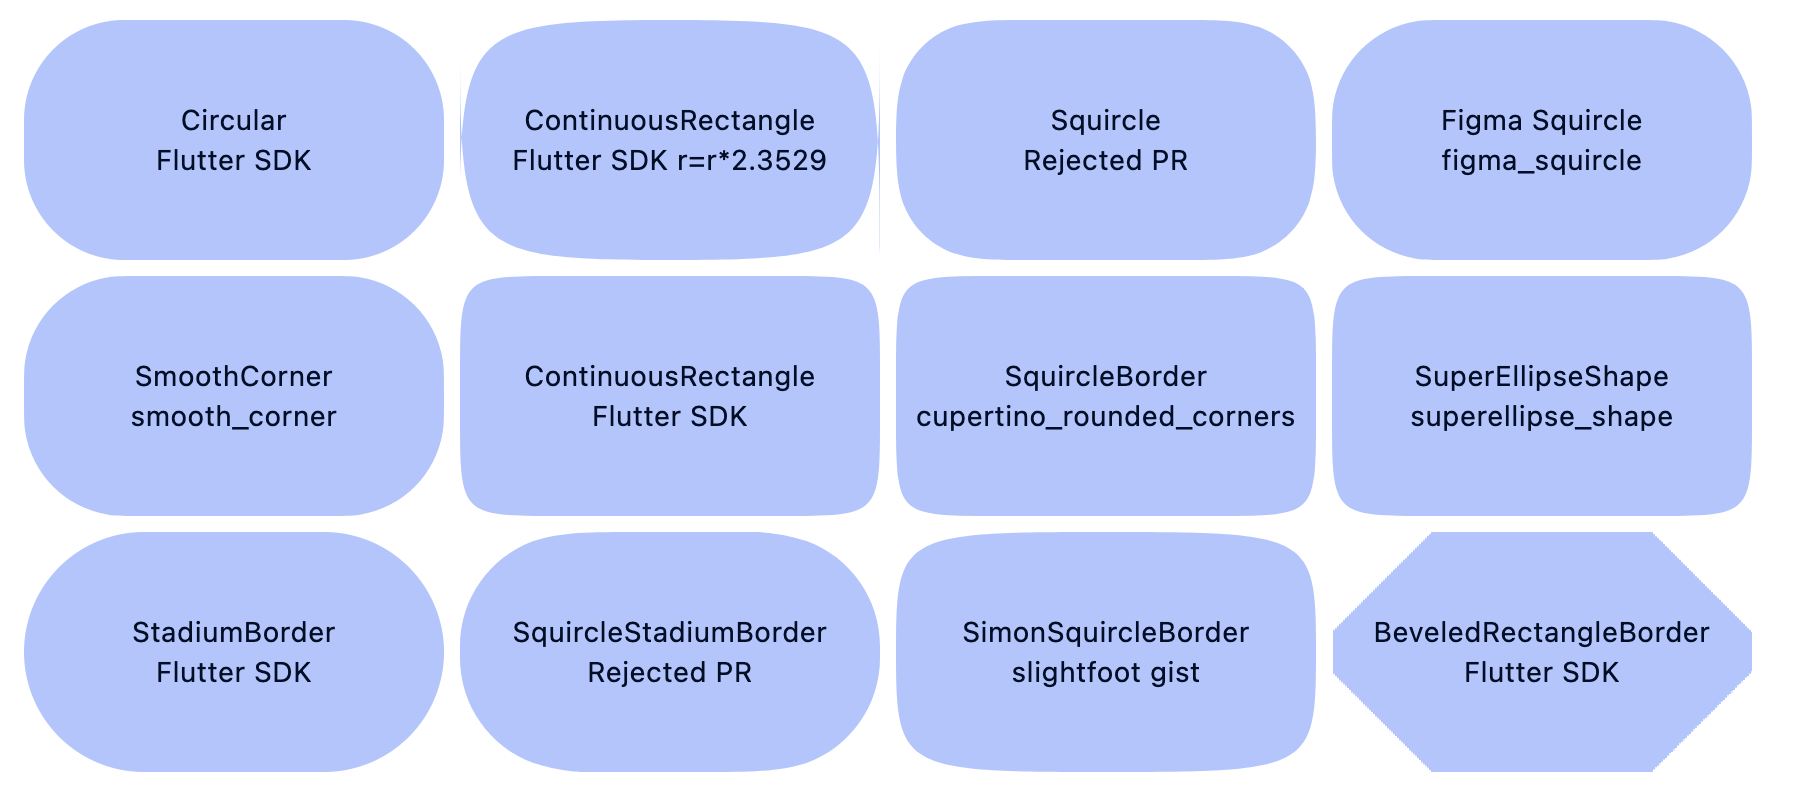
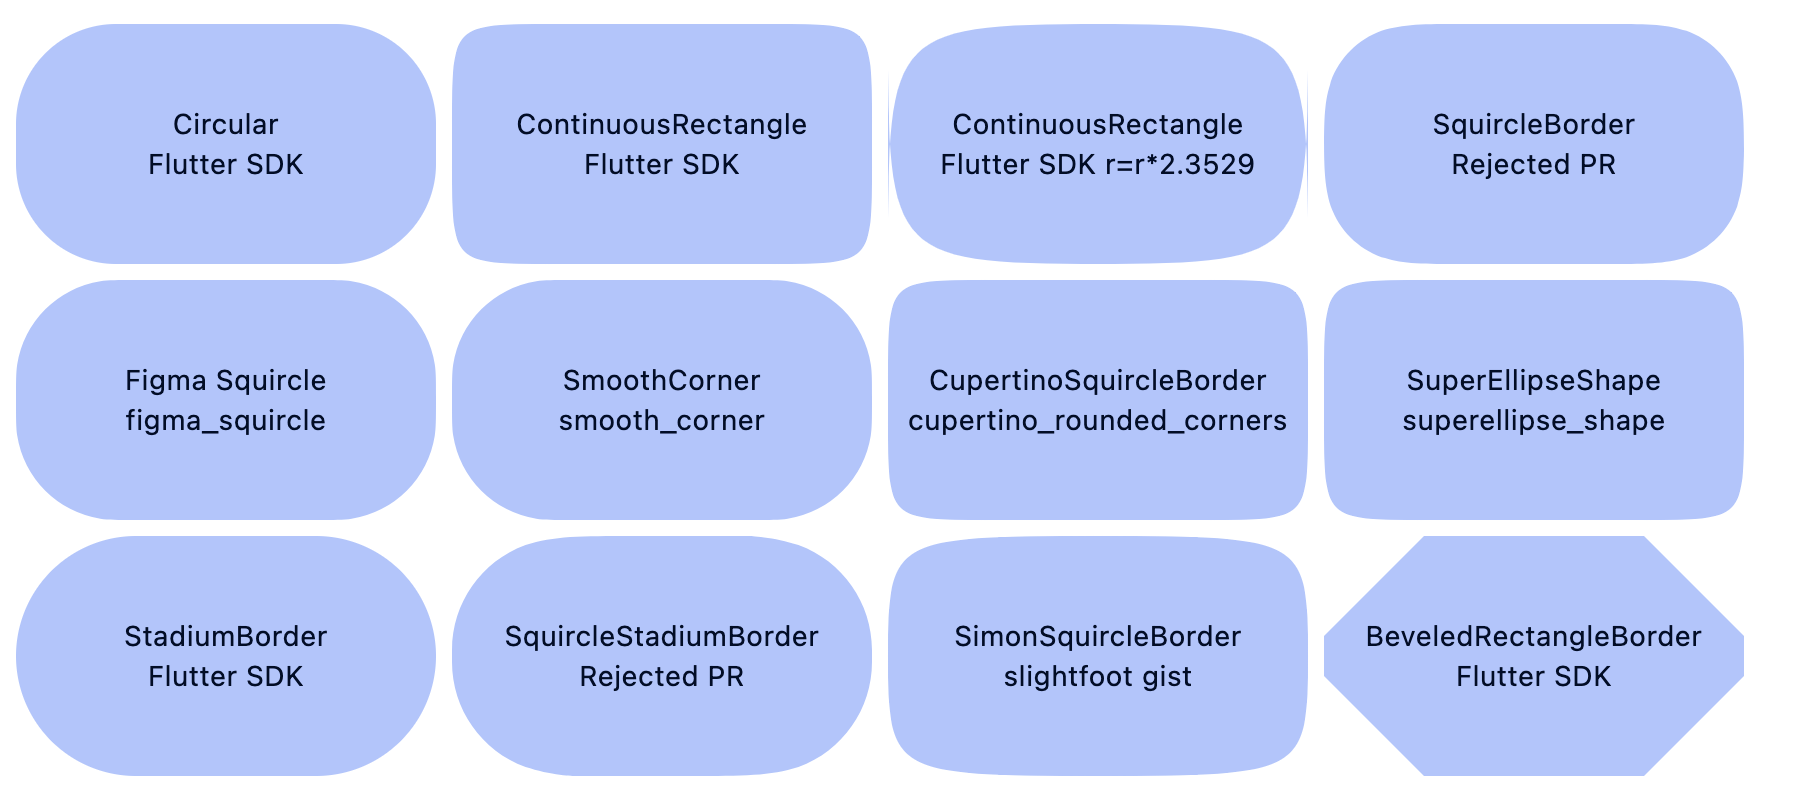
updates shapes

diff --git a/README.md b/README.md
@@ -10,7 +10,9 @@ The performance impact of using *any** other shape than **RoundedRectangleBorder
 
 The **Shape** options you can compare with this repo are:
 
+<img src="https://raw.githubusercontent.com/rydmike/squircle_study/master/assets/shapes.png" alt="shapes"/>
 
+_Studied Squirlce like BorderShapes_
 
 ### Circular
 
